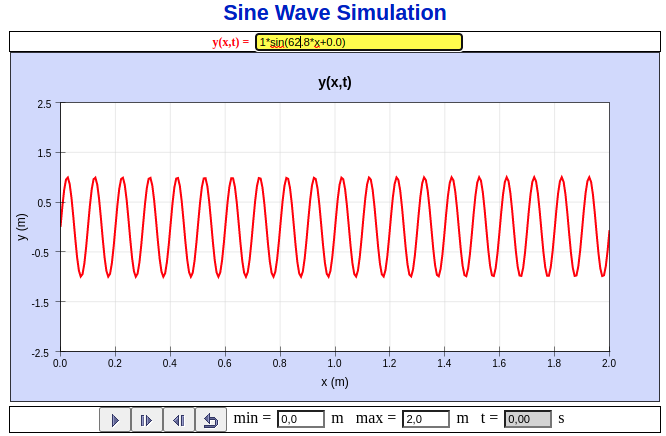
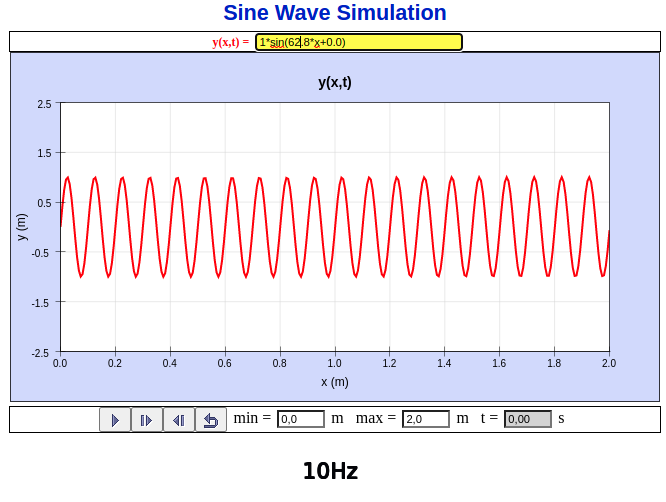
prueba

diff --git a/M2_UF0.md b/M2_UF0.md
@@ -40,18 +40,14 @@ frecuencia de 2Hz
 - La tercera se repite diez veces cada segundo, por lo que tiene una 
 frecuencia de 10Hz
 
-<p align="center"><img src="img/1Hz.png" width="400px"/></br>
-1Hz</p>
-
 <p align="center">
-<img src="img/2Hz.png" width="90%"/></br>
-2Hz</p>
+<img src="img/1Hz.png" width="60%"/>
+<img src="img/2Hz.png" width="60%" />
+<img src="img/10Hz.png" width="60%" />
+</p>
 
-<p align="center">
-<img src="img/10Hz.png" width="500px"/></br>
-10Hz</p>
 
-### Periodo
+### Periodo 
 
 El periodo es cuanto tiempo tarda el ciclo en repetirse, es la inversa
 de la frecuencia, es decir:
